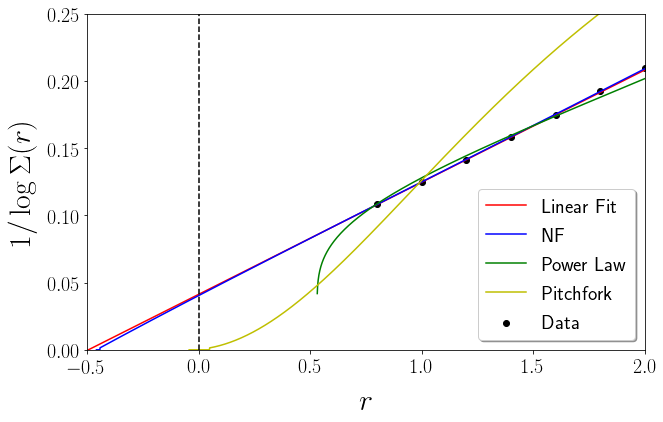
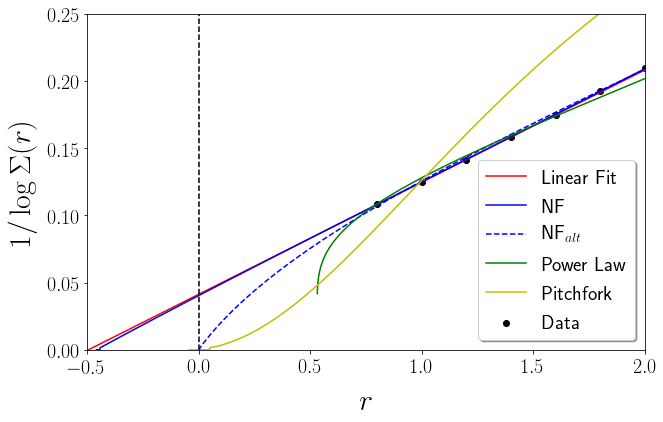
additional slides

diff --git a/Hayden-B.html b/Hayden-B.html
@@ -159,15 +159,66 @@
                                                 <img width=100% src='images/flow_presentation.png' style="background:none; border:none; box-shadow:none;">
                                         </section>
 
+					<section>
+						<h3> Dimensionality</h3>
+					</section>
+
+                                        <section>
+                                                <img width=70% src="images/tetrahedrons_presentation.png" style="background:none; border:none; box-shadow:none;">
+                                        </section>
+
                                         <section>
 						<h3> Dimensionality</h3>
                                                 <img width=100% src='images/sankey.png' style="background:none; border:none; box-shadow:none;">
                                         </section>
 
+                                        <section>
+                                                <h3> Dimensionality</h3><br>
+                                                $||E_{tf}-E_{tf'}S_{f'f}||_F^2$<br><br>
+                                                $\Sigma_{f'}S_{f'f}=1$
+                                        </section>
+
 					<section>
-						<h2> Takeaways</h2>
-						<h4> $r^2$ values and PVE are comparable to the performance of the benchmark factor decomposition of Fama and French</h4>
-						<h4> Provides principled means to analyze company exposure and create sector specific indices</h4>
+						<img width=40% src='W28.png' style="background:none; border:none; box-shadow:none;">
+						<img width=60% src='W38.png' style="background:none; border:none; box-shadow:none;">
+					</section>
+
+					<section>
+						<h3>Coefficient of Determination</h3><br>
+						$r^2 = 1-SSE/SST$<br><br>
+						$SSE =  ||R-EW||_F^2\quad$ and $\quad SST = ||R||_F^2$
+					</section>
+
+					<section>
+						<table valign='center'>
+							<thead>
+								<th></th>
+								<th align='center'>8 (3) Factor AA<br></th>
+								<th align='center'> Fama and French<br></th>
+							</thead>
+							<tbody>
+								<tr valign='center'>
+									<td align='center' valign='center'>Normalized <br>Data</td>
+									<td align='center' valign='center'>11.1% (5.61%)</td>
+									<td align='center' valign='center'>4.75%</td>
+								</tr>
+								<tr>
+									<td align='center'>S&P 500</td>
+									<td align='center'>93.5%</td>
+									<td align='center'>99.4%</td>
+								</tr>
+								<tr>
+									<td align='center' valign='center'>Equal <br>Weighted<br> S&P</td>
+									<td align='center' valign='center'><br>99.0% (97%)</td>
+									<td align='center' valign='center'><br>95.8%</td>
+								</tr>
+							</tbody>
+						</table>
+					</section>
+
+					<section>
+						<h4> Archetypal Analysis provides factors (sector time series) which are competitive with standard benchmark factor models in finance.</h4>
+						<h4> The factors obtained via AA are conceptually rich and provide a principled means to analyze company exposure and create sector specific indices</h4>
 					</section>
 				</section>
 				
@@ -186,13 +237,14 @@
 					</section>
 
                                         <section>
+						<h3> Hyper-ribbons</h3>
+                                                <img width=70% src="hyperribbon-concept.png" style="background:none; border:none; box-shadow:none;">
+                                        </section>
+
+                                        <section>
                                                 <h3> Hyper-ribbons</h3>
                                                 <img width=100% src='images/hyperRib.png' style="background:none; border:none; box-shadow:none;">
                                         </section>
-
-					<section>
-						<img width=70% src="images/tetrahedrons_presentation.png" style="background:none; border:none; box-shadow:none;">
-					</section>
 
 					<section>
 						<h3> A Systems Biology Example</h3>
@@ -204,6 +256,15 @@
                                                 <h3> A Systems Biology Example</h3>
 						<img width=34.25% src="images/systemsbioreduced.png">
                                                 <img width=50%  src="images/reducedEqns-378.gif">
+                                        </section>
+
+                                        <section>
+                                                <h3>Motivation</h3>
+                                                <p>
+                                                Neural network with N-1 neurons performs almost as well as network with N neurons (suggests Nth dimension thin)<br> 
+                                                Is it possible to evaporate neurons in the same way as in the systems biology network?<br>
+                                                Can the manifold provide insight for generating new ML architectures?<br>
+                                                </p>
                                         </section>
 	
 					<section>
@@ -234,7 +295,17 @@
                                         <section>
                                                 <h3> Boundary Relationship</h3>
                                                 <p> N-1 and N-dimensional descriptions have a boundary relationship: $M_{N−1} \approx \partial M_{N}$</p> 
-                                             	<p>Transtrum et. al. has explored the relationship between manifold boundaries and
+					</section>
+
+                                        <section>
+						<h3> Boundary Relationship</h3>
+                                                <img width=50% src="images/DBN_3D_PCA.png">
+                                        </section>
+
+					<section>
+						<h3> Boundary Relationship</h3>
+						<img width=50% src='mbam.png' style="background:none; border:none; box-shadow:none;">
+						<p>Transtrum et. al. has explored the relationship between manifold boundaries and
 emergent model classes</p>
 					</section>
 
@@ -261,7 +332,6 @@ the surface. </p>
                                         </section>
 
 					<section>
-						<h2> Takeaways</h2>
 						<h4> The geometry of a model manifold can inform approaches to model simplification and reduction </h4>
 						<h4> Computational Neural Networks display a unique manifold geometry</h4>
 					</section>
@@ -293,7 +363,11 @@ the surface. </p>
                                                 <img src='images/A_collapse.png' height=350>
                                                 <img src='images/voronoi.png' height=350>
                                         </section>
-                                
+                               
+					<section>
+						<h3> Power Law Scaling is Insufficient</h3>
+					</section>
+ 
 					<section>
                                                 <h4>Eduard Vives, J&uuml;rgen Goicoechea, Jordi Ort&iacute;n, and Antoni Planes: 1995</h4>
                                                 $r_c=0.75\pm0.03$, $\ L=100$
@@ -301,6 +375,10 @@ the surface. </p>
                                                 <h4>Djordje Spasojevi&cacute;, Sanja Jani&cacute;evi&cacute;, and Milan Kne&#382;evi&cacute;: 2011</h4>
                                                 $r_c=0.54\pm0.02$, $\ L=131,072$, <br> collapse over range of $r\sim10\%$
                                 	</section>
+
+					<section>
+						<h3> Power Law Scaling assumes a hyperbolic fixed point in the Renormalization Group flows</h3>
+					</section>
 
                                         <section> <!-- data-background='images/avalanche_background.png' data-background-repeat="repeat" >-->
                                                 <h3>Power Law Scaling</h3>
@@ -320,14 +398,19 @@ the surface. </p>
 						</p>
 					</section>
 
+					<section>
+						<h3>Normal Form Theory</h3><br>
+						$\frac{dw}{dl} = a w^2 + b w^3 + c w^4 + \cdots$<br><br>
+						$\frac{dw}{dl} = w^2 + B w^3$
+					</section>
 
                                         <section>
                                                 <table align="center">
                                                         <thead>
                                                                 <tr>
                                                                         <th> </th>
-                                                                        <th>Power Law Scaling</th>
-                                                                        <th>Lower Critical Dimension</th>
+                                                                        <th align='center'>Power Law Scaling</th>
+                                                                        <th align='center'>Lower Critical Dimension</th>
                                                                 </tr>
                                                         </thead>
                                                         <tbody>
@@ -367,18 +450,34 @@ the surface. </p>
                                         <section data-background='dMdh_collapse_with_eta.png' data-background-size=70%>
                                         </section>
 
-	                                <section>
-        	                                <h3>Equilibrium</h3>
-                	                        Bray and Moore, 1985: $\frac{dw}{d\ell}=\epsilon w+A w^3+\cdots$<br><br>
-                        	                Normal Form: $\frac{dw}{d\ell}=w^3+Dw^5$<br><br>
-                                	        $\xi\sim e^{1/2w^2}(w^2)^{-D/2}$<br><br>
-                                        	Meinke and Middleton, 2005: $D=2.14$
-                                	</section>
+                                        <section>
+                                                <h3>Equilibrium</h3>
+                                                Bray and Moore, 1985: $\frac{dw}{d\ell}=\epsilon w+A w^3+\cdots$<br><br>
+                                                Normal Form: $\frac{dw}{d\ell}=w^3+Dw^5$<br><br>
+                                                $\xi\sim e^{1/2w^2}(w^2)^{-D/2}$<br><br>
+                                                Meinke and Middleton, 2005: $D=2.14$
+                                        </section>
 
                                         <section data-background='comparison.png' data-background-size=60%>
                                         </section>
-                                        
-					<section data-background='logplot.png' data-background-size=60%>
+
+                                        <section data-background='logplot.png' data-background-size=60%>
+                                        </section>
+
+                                        <section>
+                                                <img width=80% src='Sigma_truncated_comparison.png'>
+                                        </section>
+
+                                        <section>
+                                                <img width=80% src='eta_truncated_comparison.png'>
+                                        </section>
+
+                                        <section>
+                                                <img width=80% src='Sigma_wellbehaved_comparison.png'>
+                                        </section>
+
+                                        <section>
+                                                <img width=80% src='eta_wellbehaved_comparison.png'>
                                         </section>
 
                                         <section>
@@ -459,6 +558,7 @@ the surface. </p>
 
 				</section>
 
+<!--
 				<section>
 
 					<section>
@@ -469,7 +569,8 @@ the surface. </p>
 						<img width=60% src="images/DBN_3D_PCA.png">
 					</section>
 				</section>
-
+-->
+<!--
 				<section>
 
 					<section>
@@ -494,6 +595,7 @@ the surface. </p>
 
 
 				</section>
+-->
 			</div>
 
 		</div>
